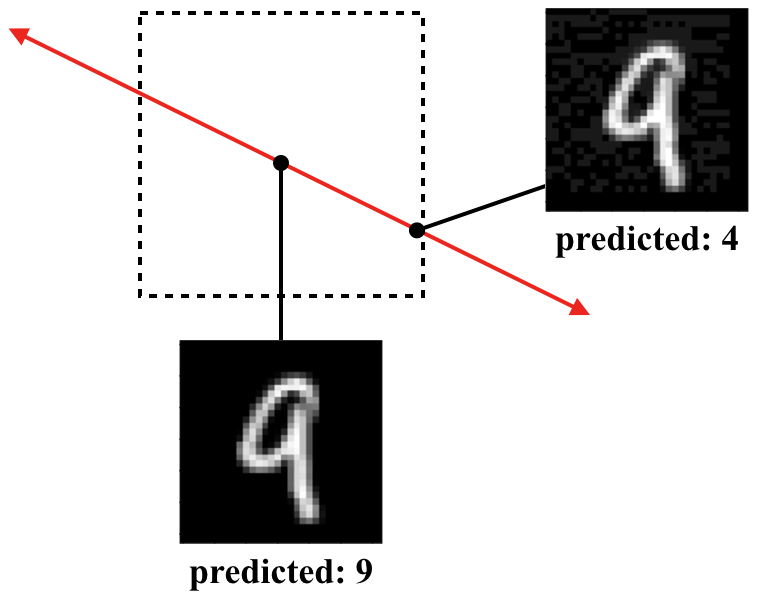
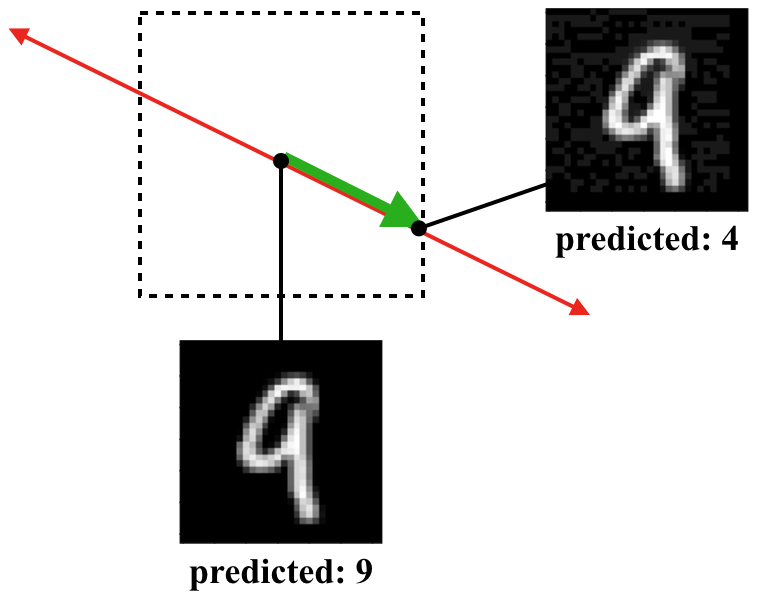
perturb direction

Changed region(s): [[0.3641, 0.2408, 0.6069, 0.3913], [0.6675, 0.301, 0.7282, 0.3311], [0.6069, 0.3311, 0.6675, 0.3612]]

diff --git a/docs/feat1.md b/docs/feat1.md
@@ -24,7 +24,17 @@ $M_A$ นั่นคือ ทำให้ $M_A$ ทำนายคลาสข
 แต่ตัวอย่างข้อมูลที่เป็น adversarial example นั้นโจมตีข้ามแบบจำลองได้ นั่นแสดงว่า ถ้ามีผู้ไม่หวังดีสร้าง adversarial example โดยอ้างอิงจากแบบจำลองหนึ่ง และนำไปโจมตีระบบที่เกี่ยวข้องกับความปลอดภัยเหล่านี้
 ก็อาจจะสามารถโจมตีได้จริง
 
-## ทิศทางของ adversarial example และการกระจุกตัวของข้อมูล
+## ทิศทางของการก่อกวน และการกระจุกตัวของข้อมูล
+สำหรับตัวอย่างข้อมูล $(x,y)$ ใด ๆ เมื่อเรานำมาคำนวณหา adversarial example $x^{adv}$
+เราจะเรียกทิศทางของเวกเตอร์ที่ลากจาก $x$ ไปยัง $x^{adv}$ ว่า _ทิศทางของการก่อกวน_
+เช่นรูปด้านล่างนี้แสดงตัวอย่างการจำแนกรูปตัวเลข โดยรูปเลข 9 ในตำแหน่งกลางกล่องสี่เหลี่ยมแสดงตัวอย่างข้อมูลในชุดข้อมูลจริง และรูปเลข 9 ที่ขอบด้านขวาแสดงตัวอย่าง
+adversarial example ที่ทำให้แบบจำลองทำนายเป็นเลข 4
+โดยกล่องสี่เหลี่ยมแทนขอบเขตของข้อมูลที่มีระยะห่างจากข้อมูลตั้งต้นไม่เกิน $\epsilon$
+ทิศทางของการก่อกวนในตัวอย่างนี้แสดงด้วยลูกศรสีเขียว
+
+<p align="center">
+<img width="500" src="https://raw.githubusercontent.com/vacharapat/Adversarial-Machine-Learning/master/images/adv_ex.png">
+</p>
 
 ## References
 
